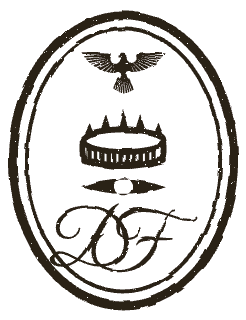
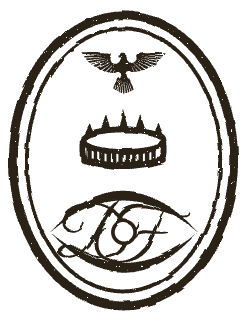
site: the eye widened to wrap the DF, seal doubled on the page

Changed region(s): [[0.1992, 0.5625, 0.7967, 0.875], [0.4837, 0.5312, 0.5122, 0.5625]]

diff --git a/src/components/crest-mark.tsx b/src/components/crest-mark.tsx
@@ -1,6 +1,6 @@
 /* The de Falco family seal, stylized from a photo of the wax stamp (over a
-   century old): a falcon displayed over a marquess coronet, the cipher's eye,
-   and an interlaced DF, inside the double ring of the oval face. Letters are
+   century old): a falcon displayed over a marquess coronet, and the cipher:
+   an interlaced DF wrapped in the eye, inside the double ring of the oval face. Letters are
    Great Vibes outlines (OFL); falcon from openclipart 319705 (public domain). */
 export function CrestMark({ className }: { className?: string }) {
   return (
@@ -14,6 +14,10 @@ export function CrestMark({ className }: { className?: string }) {
       strokeLinecap="round"
     >
       <defs>
+        <mask id="crest-hole">
+          <rect x="-10" y="-10" width="120" height="150" fill="white" />
+          <circle cx="50" cy="94" r="4.5" fill="black" />
+        </mask>
         <filter id="crest-age" x="-8%" y="-8%" width="116%" height="116%">
           <feTurbulence
             type="turbulence"
@@ -120,23 +124,26 @@ export function CrestMark({ className }: { className?: string }) {
           <path d="M 54.7 53.5 L 57 46.3 L 59.3 53.5 Z" />
           <path d="M 61.7 55.2 L 64 49.5 L 66.3 55.2 Z" />
         </g>
-        <path
-          fillRule="evenodd"
-          fill="currentColor"
-          stroke="none"
-          d="M 33 75.7 Q 50 69.5 67 75.7 Q 50 81.9 33 75.7 Z M 50 72 A 3.7 3.7 0 1 0 50 79.4 A 3.7 3.7 0 1 0 50 72 Z"
-        />
-        <g
-          transform="translate(19.11,107.15) scale(0.31)"
-          fill="currentColor"
-          stroke="none"
-        >
-          <path d="M19.600 4.300Q15.500 4.300 11.800 3.100Q8.100 1.900 5.750-0.500Q3.400-2.900 3.400-6.500Q3.400-10.200 6.650-13.200Q9.900-16.200 15.900-16.200Q22.200-16.200 27.850-13.350Q33.500-10.500 39.800-7.200Q45.100-12.300 49.250-19.050Q53.400-25.800 57.250-33.300Q61.100-40.800 65.200-48.250Q69.300-55.700 74.400-62.100Q75.300-63.200 76.200-64.350Q77.100-65.500 78.100-66.600Q72.700-69.800 66.500-71.550Q60.300-73.300 53.700-73.300Q45.500-73.300 38.500-71.200Q31.500-69.100 26.350-65.550Q21.200-62 18.300-57.550Q15.400-53.100 15.400-48.400Q15.400-44.200 17.150-41.450Q18.900-38.700 21.600-37.400Q24.300-36.100 26.900-36.100Q30.400-36.100 32.900-37.450Q35.400-38.800 37-40.800Q38.600-42.800 39.400-44.700Q40.200-46.600 40.300-47.800Q40.300-48.500 41.200-48.500Q42.600-48.500 42.300-46.800Q41.800-42.800 39.300-39.850Q36.800-36.900 33.300-35.250Q29.800-33.600 26.100-33.600Q21.700-33.600 18.100-35.250Q14.500-36.900 12.350-40.250Q10.200-43.600 10.200-48.500Q10.200-55 13.700-60.150Q17.200-65.300 23.300-68.900Q29.400-72.500 37.300-74.400Q45.200-76.300 54-76.300Q60.800-76.300 67.700-74.650Q74.600-73 80.800-69.700Q83.400-72.600 86.150-74.850Q88.900-77.100 91.800-78.300Q93.100-78.800 93.900-78.800Q94.500-78.800 94.500-78.500Q94.500-78 92.200-76Q90.900-74.800 89.100-72.350Q87.300-69.900 85.400-67Q91.400-63.100 96.050-57.550Q100.700-52 103.400-44.950Q106.100-37.900 106.100-29.300Q106.100-20.900 103.200-14.650Q100.300-8.400 95.300-4.300Q90.300-0.200 83.800 1.850Q77.300 3.900 70.100 3.900Q61.600 3.900 54.350 1.600Q47.100-0.700 40.900-3.600Q36 0.300 30.750 2.300Q25.500 4.300 19.600 4.300M78.600-56.300Q76.500-53 73.500-47.950Q70.500-42.900 66.800-37Q63.100-31.100 59.100-25.200Q55.100-19.300 51.050-14.150Q47-9 43.200-5.500Q48.500-2.900 54.900-1Q61.300 0.900 69.400 0.900Q78.600 0.900 85.400-2.950Q92.200-6.800 96-13.450Q99.800-20.100 99.800-28.500Q99.800-39.400 95.200-48.350Q90.600-57.300 82.900-63.300Q81.600-61.200 80.500-59.350Q79.400-57.500 78.600-56.300M19.600 1.200Q24.700 1.500 29.550-0.650Q34.400-2.800 37.600-5.300Q31.600-8.200 26.550-10.600Q21.500-13 17.200-13Q13.700-13 11.800-10.950Q9.900-8.900 9.900-6.400Q9.900-3.200 12.450-1.100Q15 1 19.600 1.200" />
+        <g mask="url(#crest-hole)">
           <path
-            transform="translate(54.20,0)"
-            d="M38.800 10.100Q27.800 10.100 19.650 6.700Q11.500 3.300 7.050-2.650Q2.600-8.600 2.600-16.200Q2.600-22.400 4.800-27.500Q7-32.600 10.650-36Q14.300-39.400 18.700-40.500Q19.400-40.600 19.400-40Q19.400-39.500 18.900-39.200Q13.700-36.100 10.950-30.300Q8.200-24.500 8.200-17.400Q8.200-9.700 12.200-4.150Q16.200 1.400 23.150 4.350Q30.100 7.300 38.800 7.300Q46.300 7.300 53.050 4.650Q59.800 2 65.500-2.600Q71.200-7.200 75.750-13.050Q80.300-18.900 83.400-25.300Q84.100-26.800 84.800-28.200Q85.500-29.600 86.200-31Q83.800-31.100 81.850-31.200Q79.900-31.300 79.200-31.300Q76.500-31.300 73.450-30.950Q70.400-30.600 67.750-29.600Q65.100-28.600 63.400-26.500Q62.700-25.800 62.550-25.400Q62.400-25 62.100-25Q61.700-25 61.400-25.650Q61.100-26.300 61.500-27.100Q63.800-32.200 68-34.050Q72.200-35.900 77.400-35.900Q78.500-35.900 81.550-35.550Q84.600-35.200 88-34.800Q92.400-43.700 96.050-50.900Q99.700-58.100 102.900-62.900Q95.700-65.300 87.600-67.150Q79.500-69 70.200-69Q63.300-69 57.700-67.100Q52.100-65.200 48.150-62Q44.200-58.800 42.100-54.900Q40-51 40-47.100Q40-42.700 41.700-40.100Q43.400-37.500 46.150-36.350Q48.900-35.200 51.800-35.200Q56.100-35.200 59.150-37.300Q62.200-39.400 64-42.050Q65.800-44.700 66.200-46.400Q66.600-48 67.400-48Q68.600-48 68.400-46.600Q67.800-42.200 65.300-39Q62.800-35.800 59.200-34.150Q55.600-32.500 51.600-32.500Q47.500-32.500 43.700-34.500Q39.900-36.500 37.500-40.300Q35.100-44.100 35.100-49.500Q35.100-53.900 37.050-58.250Q39-62.600 42.950-66.250Q46.900-69.900 53-72.100Q59.100-74.300 67.400-74.300Q73.300-74.300 79.500-72.950Q85.700-71.600 92.050-69.550Q98.400-67.500 104.600-65.300Q106.700-68 108.600-69.450Q110.500-70.900 112.400-70.900Q113.200-70.900 113.500-70.550Q113.800-70.200 113.800-69.900Q113.800-69.500 113.500-69Q113.200-68.500 112.400-68.500Q109.100-68.500 106.200-64.800Q113.400-62.400 120.050-60.550Q126.700-58.700 132.400-58.700Q136.800-58.700 138.200-59.650Q139.600-60.600 139.600-62.300Q139.600-63.400 140.300-63.400Q140.800-63.400 141.250-62.750Q141.700-62.100 141.700-61.200Q141.700-58.800 139.050-57.300Q136.400-55.800 131.700-55.800Q125.500-55.800 118.800-57.850Q112.100-59.900 104.600-62.400Q101.900-57.900 99.300-50.650Q96.700-43.400 93.200-34.300Q97.500-33.900 102.300-33.650Q107.100-33.400 110.100-33.400Q111.100-33.400 111.100-32.800Q111.100-32 108.800-31.400Q107.300-31 103.750-30.800Q100.200-30.600 96.400-30.600Q95.600-30.600 94.400-30.650Q93.200-30.700 91.800-30.700Q90.900-28.400 89.950-26.050Q89-23.700 87.900-21.200Q83.700-11.300 77.650-5.150Q71.600 1 64.750 4.350Q57.900 7.700 51.150 8.900Q44.400 10.100 38.800 10.100"
+            fillRule="evenodd"
+            fill="currentColor"
+            stroke="none"
+            d="M 20 94 Q 50 61 80 94 Q 50 127 20 94 Z M 20 94 Q 50 69 80 94 Q 50 119 20 94 Z"
           />
+          <g
+            transform="translate(22.10,103.62) scale(0.28)"
+            fill="currentColor"
+            stroke="none"
+          >
+            <path d="M19.600 4.300Q15.500 4.300 11.800 3.100Q8.100 1.900 5.750-0.500Q3.400-2.900 3.400-6.500Q3.400-10.200 6.650-13.200Q9.900-16.200 15.900-16.200Q22.200-16.200 27.850-13.350Q33.500-10.500 39.800-7.200Q45.100-12.300 49.250-19.050Q53.400-25.800 57.250-33.300Q61.100-40.800 65.200-48.250Q69.300-55.700 74.400-62.100Q75.300-63.200 76.200-64.350Q77.100-65.500 78.100-66.600Q72.700-69.800 66.500-71.550Q60.300-73.300 53.700-73.300Q45.500-73.300 38.500-71.200Q31.500-69.100 26.350-65.550Q21.200-62 18.300-57.550Q15.400-53.100 15.400-48.400Q15.400-44.200 17.150-41.450Q18.900-38.700 21.600-37.400Q24.300-36.100 26.900-36.100Q30.400-36.100 32.900-37.450Q35.400-38.800 37-40.800Q38.600-42.800 39.400-44.700Q40.200-46.600 40.300-47.800Q40.300-48.500 41.200-48.500Q42.600-48.500 42.300-46.800Q41.800-42.800 39.300-39.850Q36.800-36.900 33.300-35.250Q29.800-33.600 26.100-33.600Q21.700-33.600 18.100-35.250Q14.500-36.900 12.350-40.250Q10.200-43.600 10.200-48.500Q10.200-55 13.700-60.150Q17.200-65.300 23.300-68.900Q29.400-72.500 37.300-74.400Q45.200-76.300 54-76.300Q60.800-76.300 67.700-74.650Q74.600-73 80.800-69.700Q83.400-72.600 86.150-74.850Q88.900-77.100 91.800-78.300Q93.100-78.800 93.900-78.800Q94.500-78.800 94.500-78.500Q94.500-78 92.200-76Q90.900-74.800 89.100-72.350Q87.300-69.900 85.400-67Q91.400-63.100 96.050-57.550Q100.700-52 103.400-44.950Q106.100-37.900 106.100-29.300Q106.100-20.900 103.200-14.650Q100.300-8.400 95.300-4.300Q90.300-0.200 83.800 1.850Q77.300 3.900 70.100 3.900Q61.600 3.900 54.350 1.600Q47.100-0.700 40.900-3.600Q36 0.300 30.750 2.300Q25.500 4.300 19.600 4.300M78.600-56.300Q76.500-53 73.500-47.950Q70.500-42.900 66.800-37Q63.100-31.100 59.100-25.200Q55.100-19.300 51.050-14.150Q47-9 43.200-5.500Q48.500-2.900 54.900-1Q61.300 0.900 69.400 0.900Q78.600 0.900 85.400-2.950Q92.200-6.800 96-13.450Q99.800-20.100 99.800-28.500Q99.800-39.400 95.200-48.350Q90.600-57.300 82.900-63.300Q81.600-61.200 80.500-59.350Q79.400-57.500 78.600-56.300M19.600 1.200Q24.700 1.500 29.550-0.650Q34.400-2.800 37.600-5.300Q31.600-8.200 26.550-10.600Q21.500-13 17.200-13Q13.700-13 11.800-10.950Q9.900-8.900 9.900-6.400Q9.900-3.200 12.450-1.100Q15 1 19.600 1.200" />
+            <path
+              transform="translate(54.20,0)"
+              d="M38.800 10.100Q27.800 10.100 19.650 6.700Q11.500 3.300 7.050-2.650Q2.600-8.600 2.600-16.200Q2.600-22.400 4.800-27.500Q7-32.600 10.650-36Q14.300-39.400 18.700-40.500Q19.400-40.600 19.400-40Q19.400-39.500 18.900-39.200Q13.700-36.100 10.950-30.300Q8.200-24.500 8.200-17.400Q8.200-9.700 12.200-4.150Q16.200 1.400 23.150 4.350Q30.100 7.300 38.800 7.300Q46.300 7.300 53.050 4.650Q59.800 2 65.500-2.600Q71.200-7.200 75.750-13.050Q80.300-18.900 83.400-25.300Q84.100-26.800 84.800-28.200Q85.500-29.600 86.200-31Q83.800-31.100 81.850-31.200Q79.900-31.300 79.200-31.300Q76.500-31.300 73.450-30.950Q70.400-30.600 67.750-29.600Q65.100-28.600 63.400-26.500Q62.700-25.800 62.550-25.400Q62.400-25 62.100-25Q61.700-25 61.400-25.650Q61.100-26.300 61.500-27.100Q63.800-32.200 68-34.050Q72.200-35.900 77.400-35.900Q78.500-35.900 81.550-35.550Q84.600-35.200 88-34.800Q92.400-43.700 96.050-50.900Q99.700-58.100 102.900-62.900Q95.700-65.300 87.600-67.150Q79.500-69 70.200-69Q63.300-69 57.700-67.100Q52.100-65.200 48.150-62Q44.200-58.800 42.100-54.900Q40-51 40-47.100Q40-42.700 41.700-40.100Q43.400-37.500 46.150-36.350Q48.900-35.200 51.800-35.200Q56.100-35.200 59.150-37.300Q62.200-39.400 64-42.050Q65.800-44.700 66.200-46.400Q66.600-48 67.400-48Q68.600-48 68.400-46.600Q67.800-42.200 65.300-39Q62.800-35.800 59.200-34.150Q55.600-32.500 51.600-32.500Q47.500-32.500 43.700-34.500Q39.900-36.500 37.500-40.300Q35.100-44.100 35.100-49.500Q35.100-53.900 37.050-58.250Q39-62.600 42.950-66.250Q46.900-69.900 53-72.100Q59.100-74.300 67.400-74.300Q73.300-74.300 79.500-72.950Q85.700-71.600 92.050-69.550Q98.400-67.500 104.600-65.300Q106.700-68 108.600-69.450Q110.500-70.900 112.400-70.900Q113.200-70.900 113.500-70.550Q113.800-70.200 113.800-69.900Q113.800-69.500 113.500-69Q113.200-68.500 112.400-68.500Q109.100-68.500 106.200-64.800Q113.400-62.400 120.050-60.550Q126.700-58.700 132.400-58.700Q136.800-58.700 138.200-59.650Q139.600-60.600 139.600-62.300Q139.600-63.400 140.300-63.400Q140.800-63.400 141.250-62.750Q141.700-62.100 141.700-61.200Q141.700-58.800 139.050-57.300Q136.400-55.800 131.700-55.800Q125.500-55.800 118.800-57.850Q112.100-59.900 104.600-62.400Q101.900-57.900 99.300-50.650Q96.700-43.400 93.200-34.300Q97.500-33.900 102.300-33.650Q107.100-33.400 110.100-33.400Q111.100-33.400 111.100-32.800Q111.100-32 108.800-31.400Q107.300-31 103.750-30.800Q100.200-30.600 96.400-30.600Q95.600-30.600 94.400-30.650Q93.200-30.700 91.800-30.700Q90.900-28.400 89.950-26.050Q89-23.700 87.900-21.200Q83.700-11.300 77.650-5.150Q71.600 1 64.750 4.350Q57.900 7.700 51.150 8.900Q44.400 10.100 38.800 10.100"
+            />
+          </g>
         </g>
+        <circle cx="50" cy="94" r="4.5" strokeWidth="1.5" />
       </g>
     </svg>
   );

diff --git a/src/app/page.tsx b/src/app/page.tsx
@@ -225,7 +225,7 @@ export default function Home() {
       </section>
 
       <div aria-hidden className="mt-14 text-center leading-none">
-        <CrestMark className="inline-block h-[4rem] text-text" />
+        <CrestMark className="inline-block h-[8rem] text-text" />
       </div>
 
       <footer className="mt-12 border-t border-border pt-4 text-center font-mono text-xs text-text-muted">
